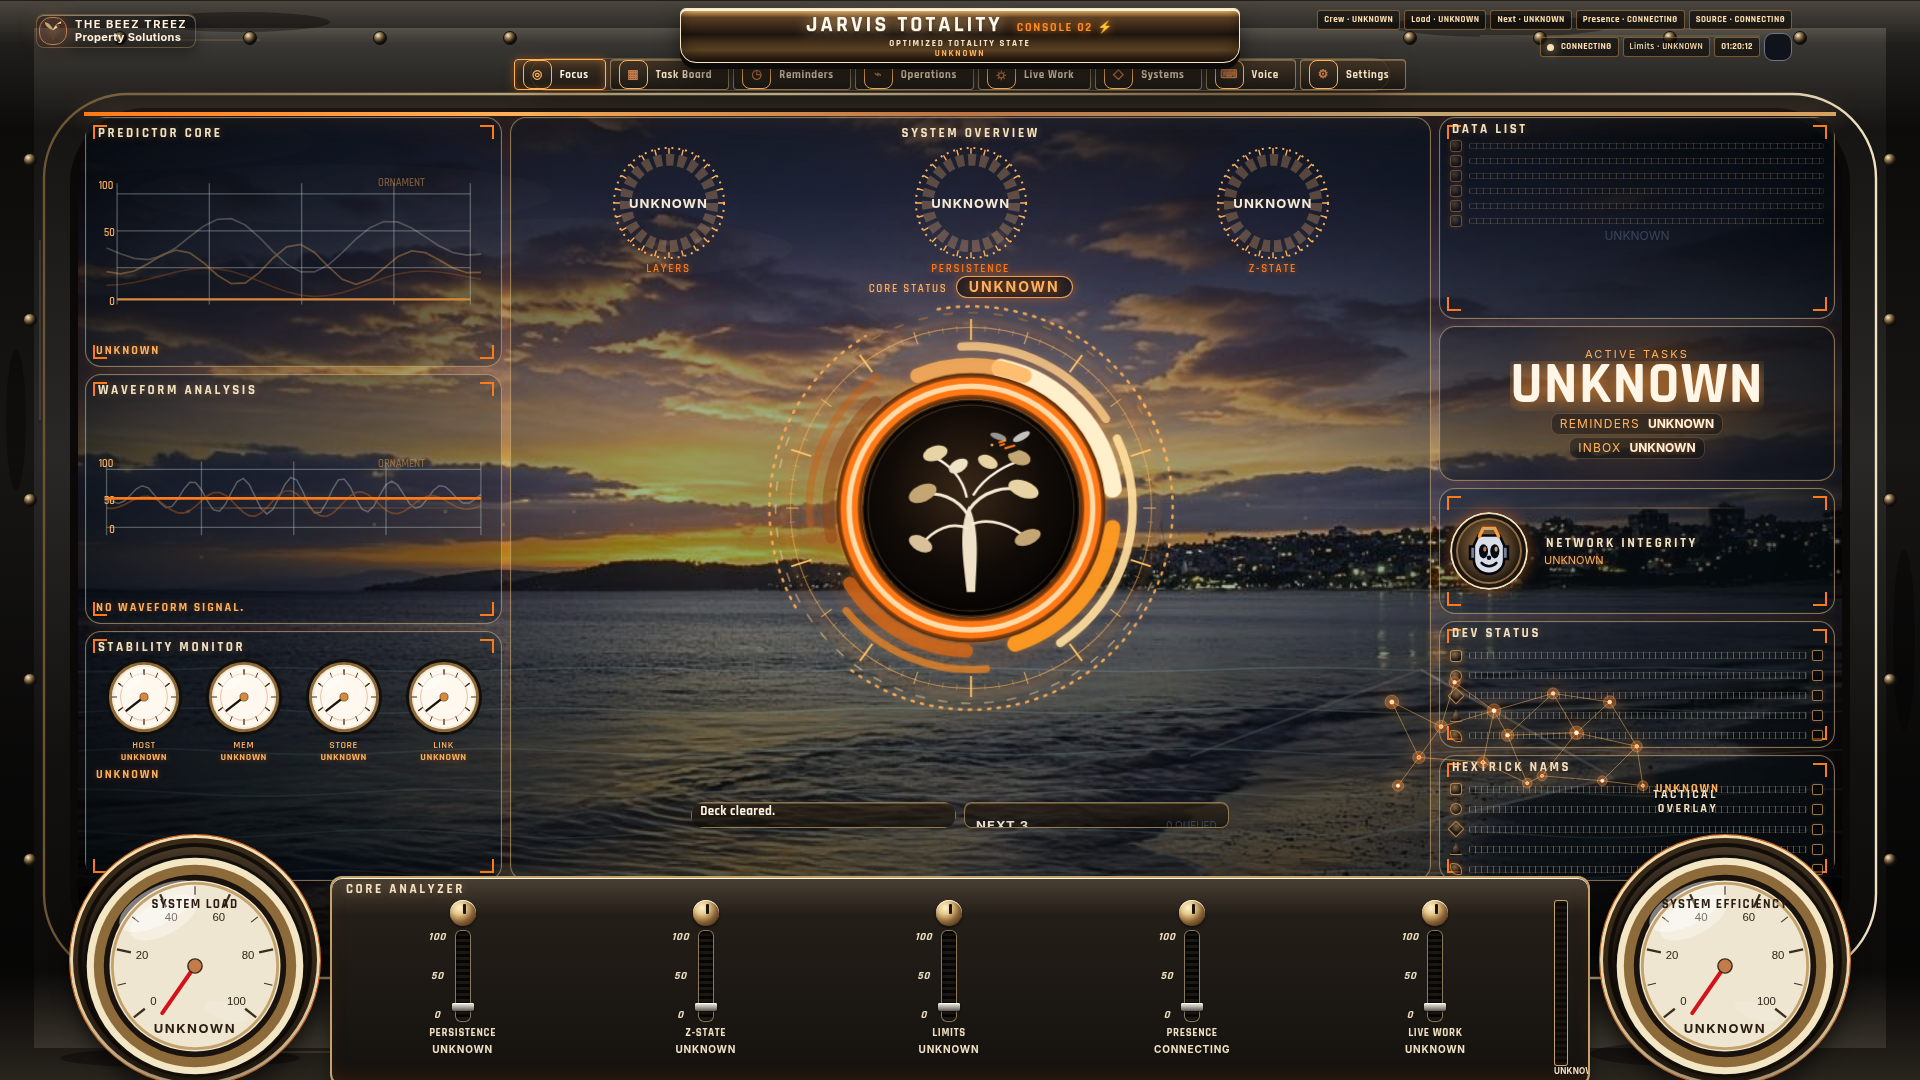
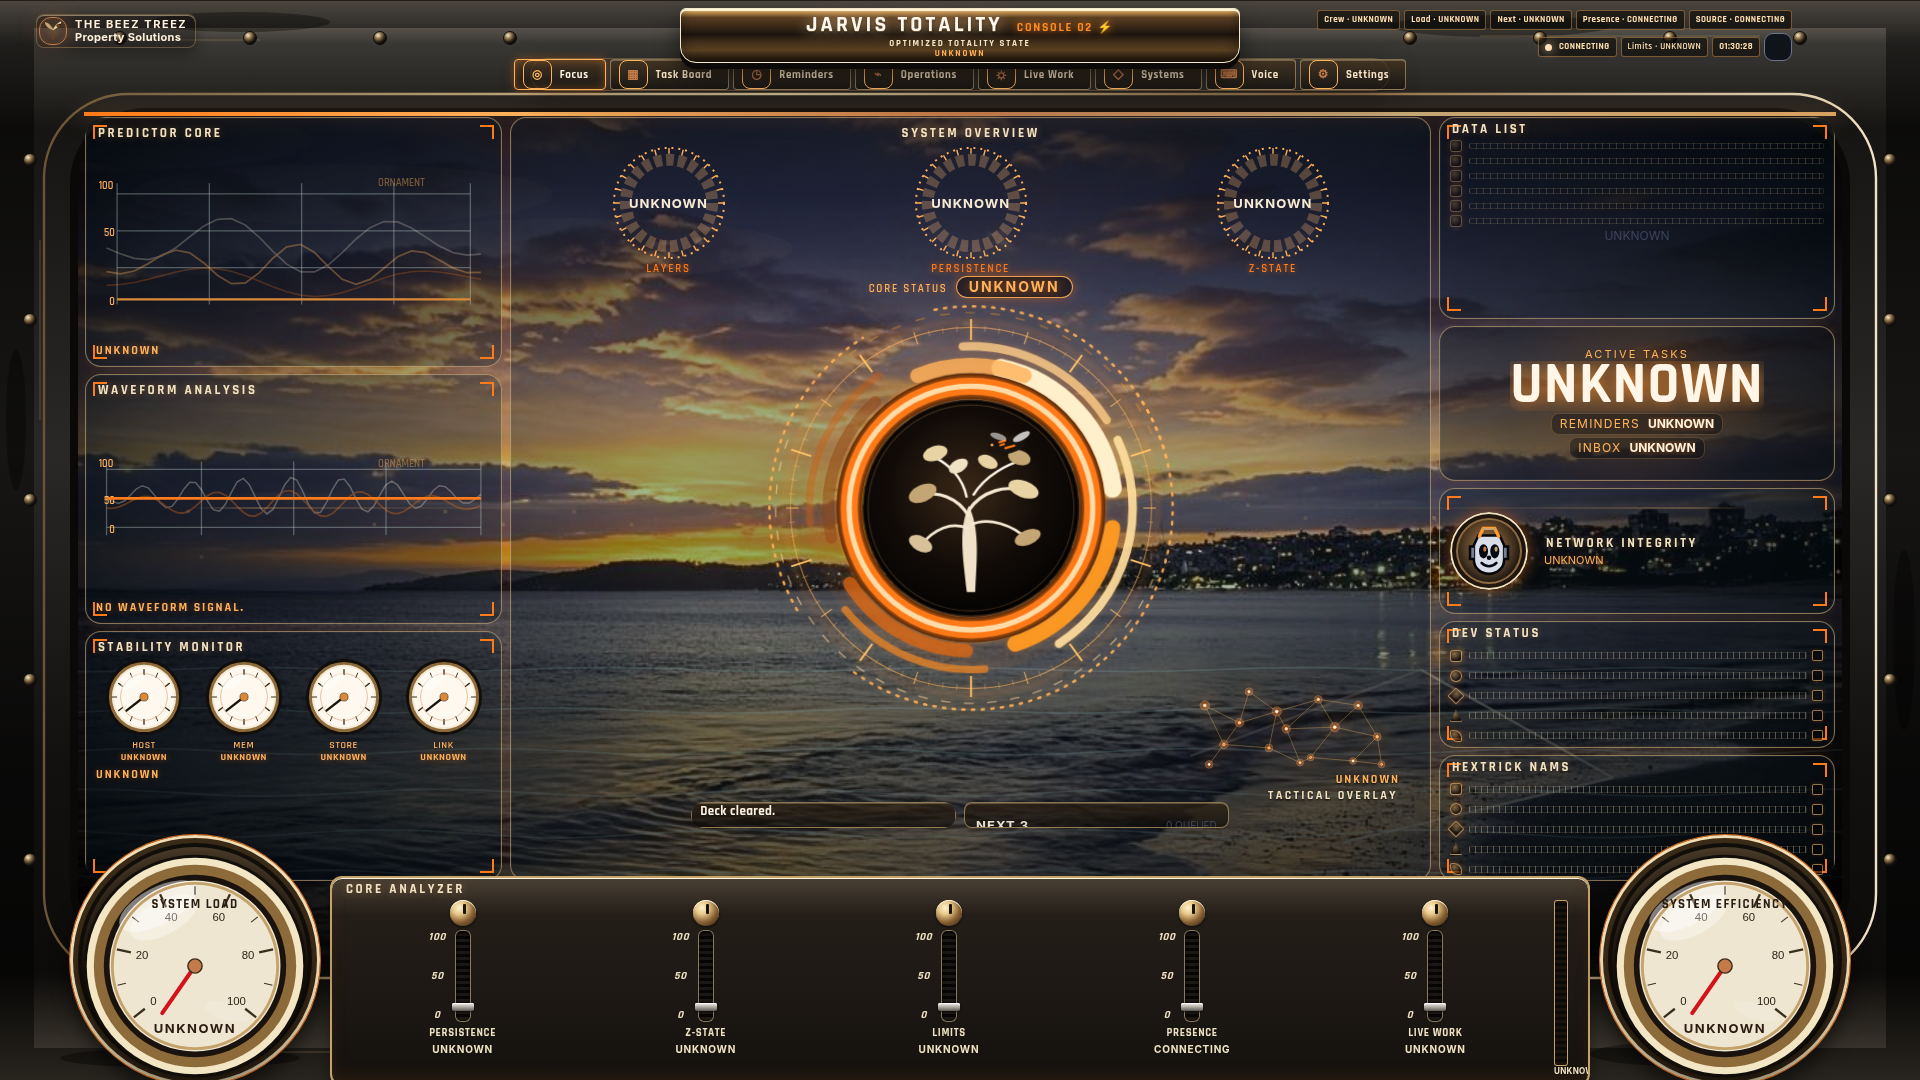
Clip the tactical network to the centre stage.
The node mesh and its label stay inside the centre column, over the lower-right coast and left of the right-column border.

diff --git a/typescript/src/mcp/dashboard-v1.html b/typescript/src/mcp/dashboard-v1.html
@@ -1992,23 +1992,31 @@
           align-self: start;
         }
         body[data-console-view="focus"] .core-side .tac-plate {
-          right: 200px;
-          bottom: 258px;
-          width: 420px;
-          height: 176px;
+          position: absolute;
+          left: auto;
+          right: 28px;
+          bottom: 78px;
+          width: 228px;
+          height: 148px;
+          margin: 0;
+          overflow: hidden;
+          z-index: 4;
         }
         body[data-console-view="focus"] .core-side .tac-plate h2 {
           position: absolute;
-          right: 0;
-          bottom: 6px;
-          width: 118px;
+          right: 2px;
+          bottom: 0;
+          left: auto;
+          width: auto;
+          max-width: calc(100% - 4px);
           margin: 0;
           text-align: right;
           z-index: 3;
-          line-height: 1.15;
+          line-height: 1.1;
+          font-size: 12px;
         }
         body[data-console-view="focus"] .tac-chart {
-          inset: 4px 124px 4px 0;
+          inset: 0 0 30px 0;
           width: auto;
           height: auto;
           min-height: 0;
@@ -2016,9 +2024,10 @@
         body[data-console-view="focus"] .tac-chart path { stroke-width: 0.85px; }
         body[data-console-view="focus"] #tactical-caption {
           position: absolute;
-          right: 0;
-          bottom: 26px;
-          width: 118px;
+          right: 2px;
+          bottom: 15px;
+          left: auto;
+          width: auto;
           margin: 0;
           text-align: right;
         }
